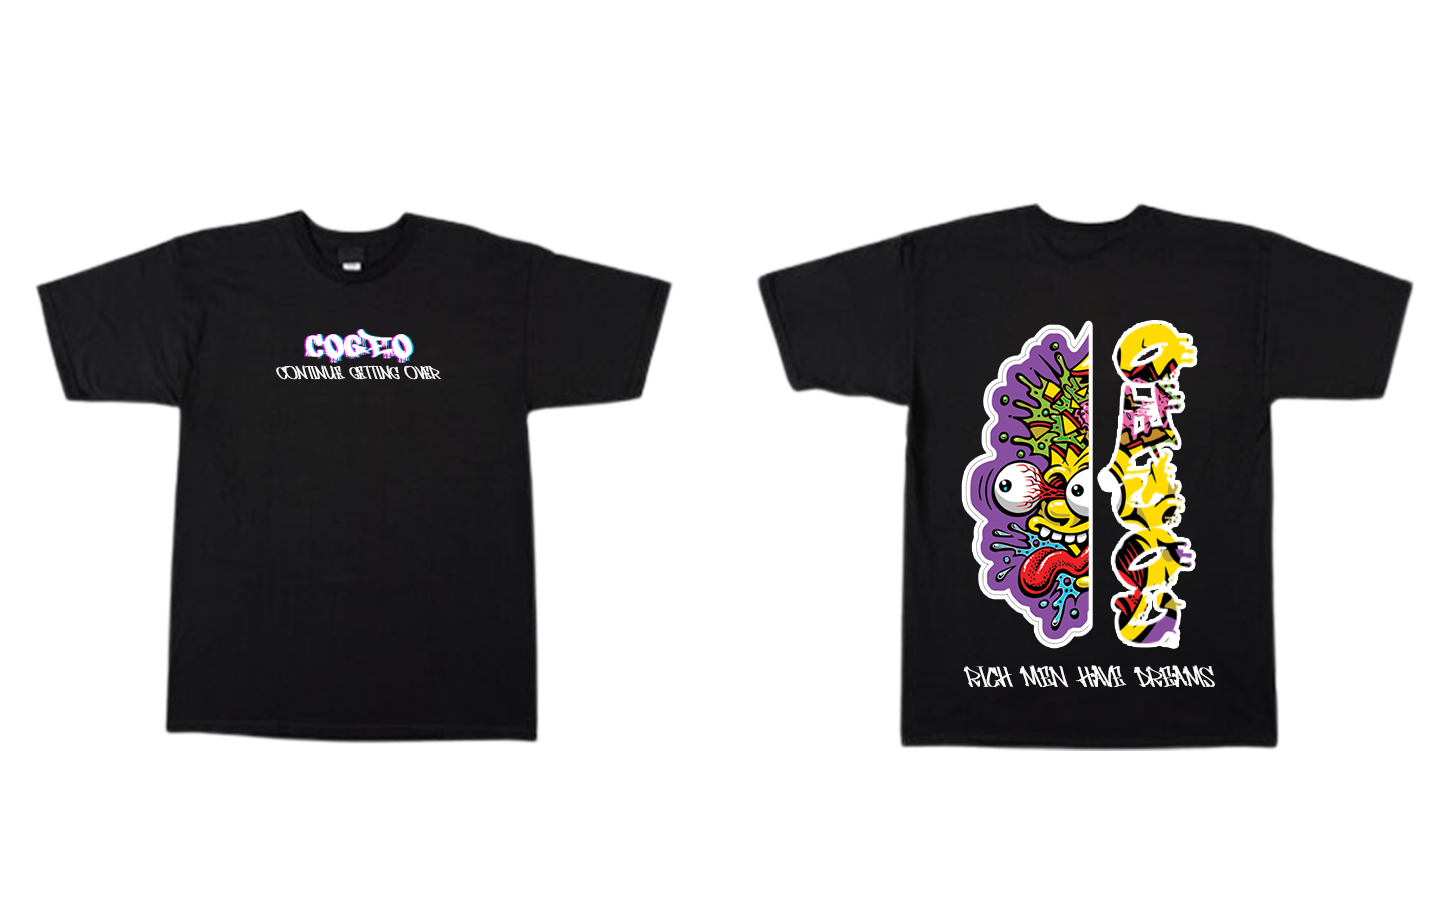
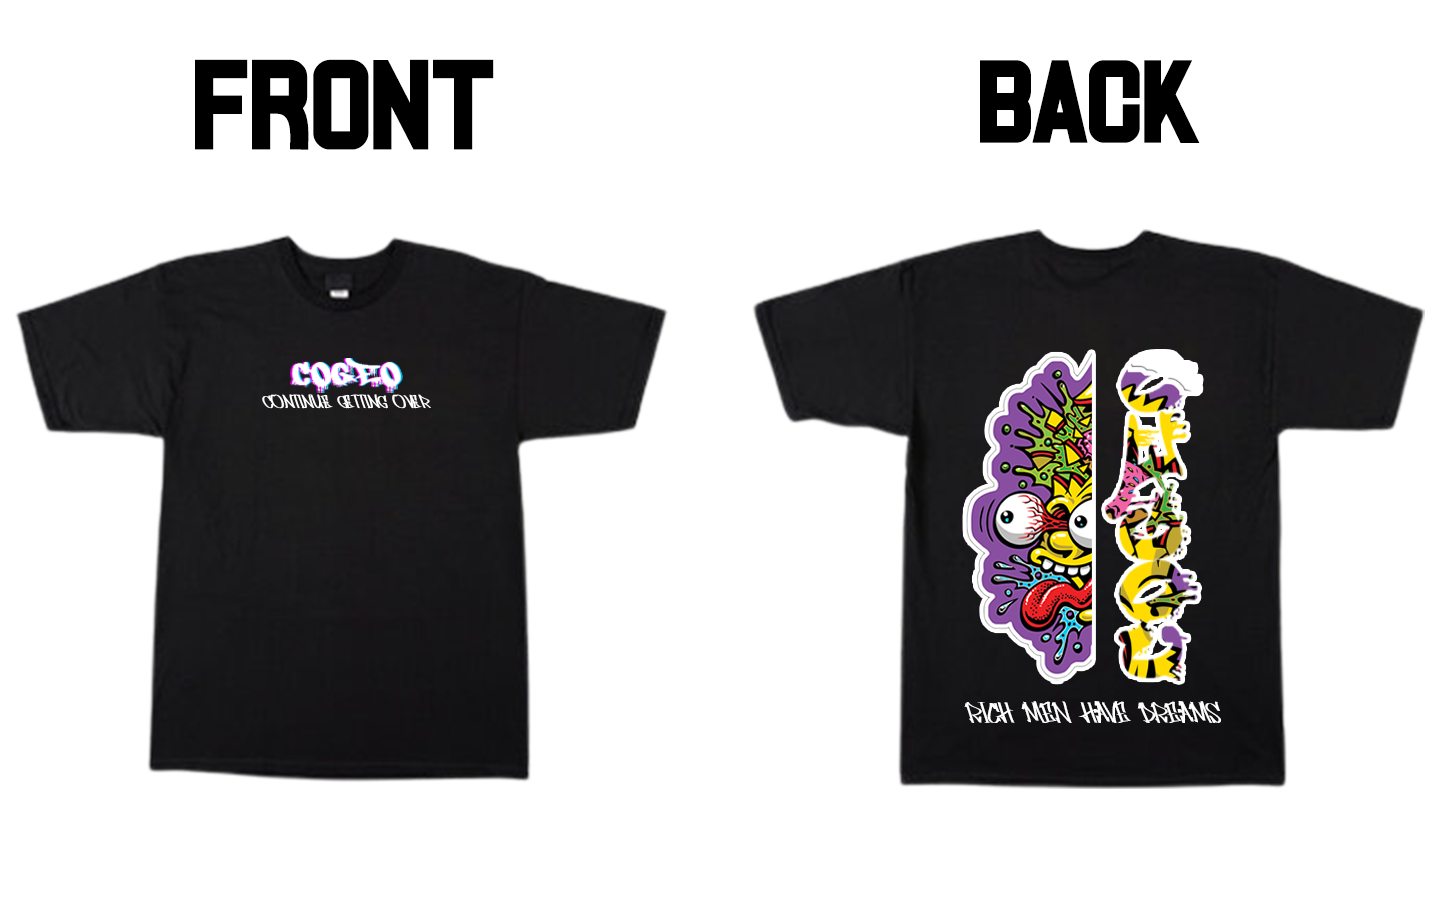
Add files via upload

diff --git a/index.html b/index.html
@@ -52,9 +52,9 @@
         <div>
             <h1 id="tshirt" class="T">T-Shirt</h1><br>
             <img id="img6" class="img6" src="ASTRONAUT NA NATUHOG.png" alt="">
-            <img id="img7" class="img7" src="One Piece Luffy.png" alt="">
+            <img id="img7" class="img7" src="One Piece ZORO.png" alt="">
             <img id="img8" class="img8" src="Glitch.png" alt="">
-            <img id="img9" class="img9" src="Luffy back.png" alt="">
+            <img id="img9" class="img9" src="Cogeo.png" alt="">
             <a href="pictures.html"><h1 class="seemore">See more..</h1></a>
         </div>
     </section>
@@ -155,9 +155,9 @@
         <div>
             <h1 id="tshirt" class="T shirTE">T-Shirt</h1><br>
             <img id="img66" class="img6" src="ASTRONAUT NA NATUHOG.png" alt="">
-            <img id="img77" class="img7" src="One Piece Luffy.png" alt="">
+            <img id="img77" class="img7" src="One Piece ZORO.png" alt="">
             <img id="img88" class="img8" src="Glitch.png" alt="">
-            <img id="img99" class="img9" src="Etst.png" alt="">
+            <img id="img99" class="img9" src="Cogeo.png" alt="">
             <a href="pictures.html"><h1 class="seeemore">See more..</h1></a>
         </div>
     </section>

diff --git a/pictures.html b/pictures.html
@@ -17,13 +17,13 @@
         <div class="imahe">
             <img src="ASTRONAUT NA NATUHOG.png" alt="">
             <img src="Etst v2.png" alt="">
-            <img src="Glitch.png" alt="">
+            <!-- <img src="Glitch.png" alt=""> -->
             <img src="Etst.png" alt="">
-            <img src="One Piece Nami.png" alt="">
-            <img src="One Piece Nami WHITE.png" alt="">
+            <img src="One Piece ZORO.png" alt="">
+            <img src="One Piece ZOROWHITE.png" alt="">
             <img src="One Piece Luffy.png" alt="">
             <img src="One Piece Luffy WHITE.png" alt="">
-            <img src="Luffy back.png" alt="">
+            <!-- <img src="Luffy back.png" alt=""> -->
             <img src="Cogeo.png" alt="">
         </div>
     </main>
